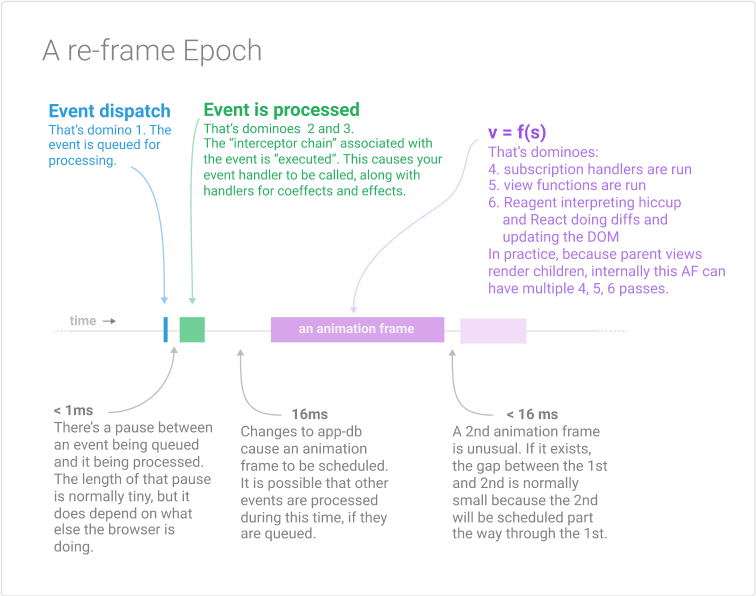
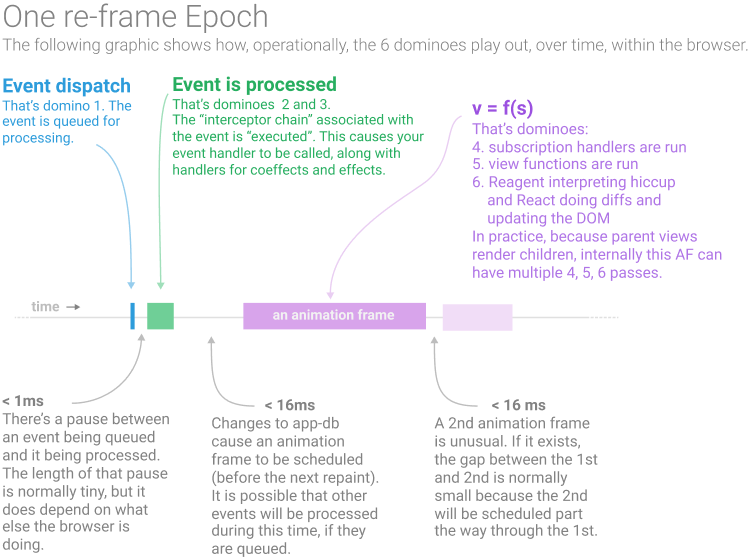
Tweak new Epoch timeline docs

diff --git a/docs/AnEpoch.md b/docs/AnEpoch.md
@@ -1,6 +1,3 @@
-## A re-frame Epoch
-
-The following graphic shows, operationally, how the dominoes play out, over time, within the browser.  
 
 <img src="/images/epoch.png?raw=true">
 
